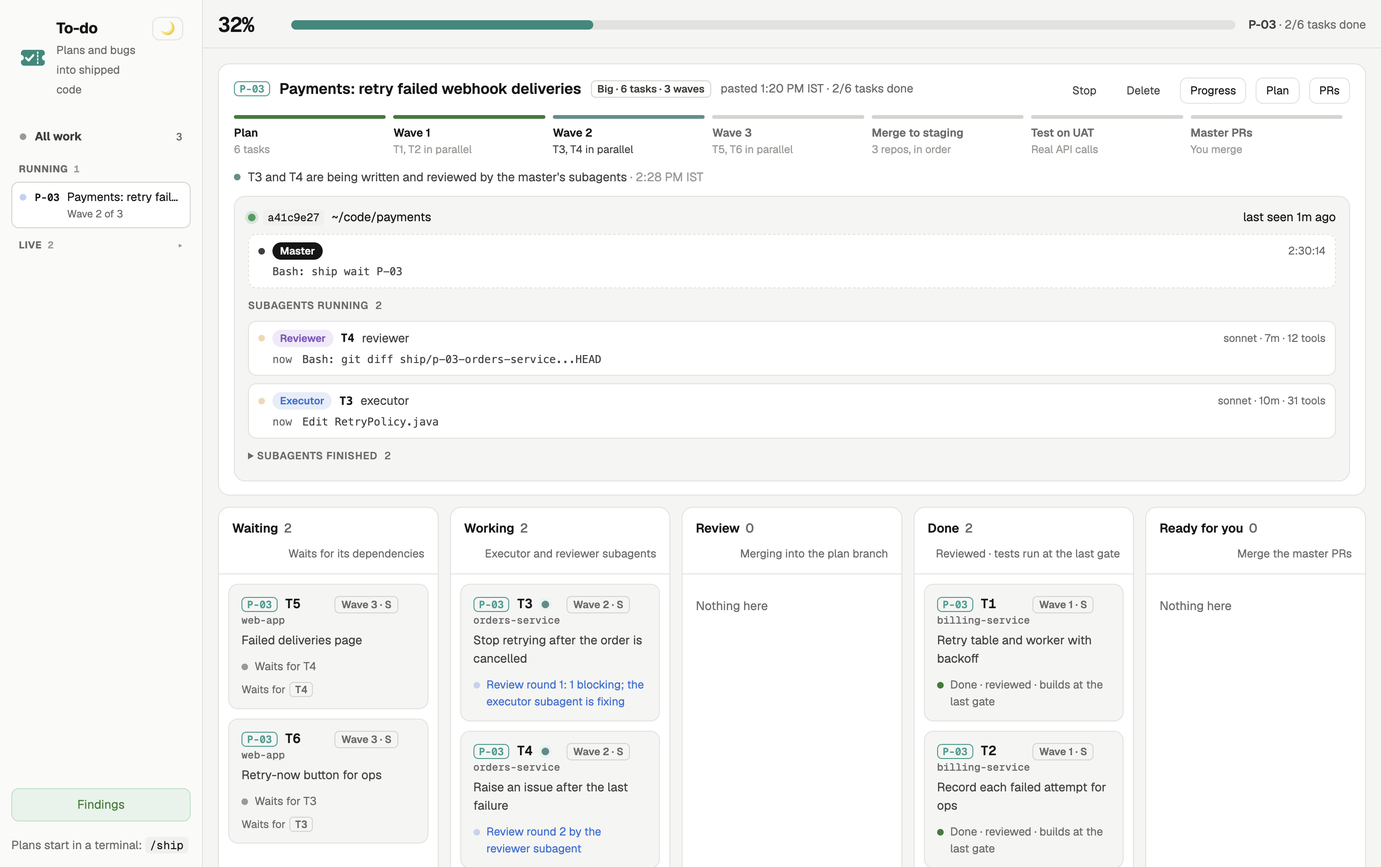
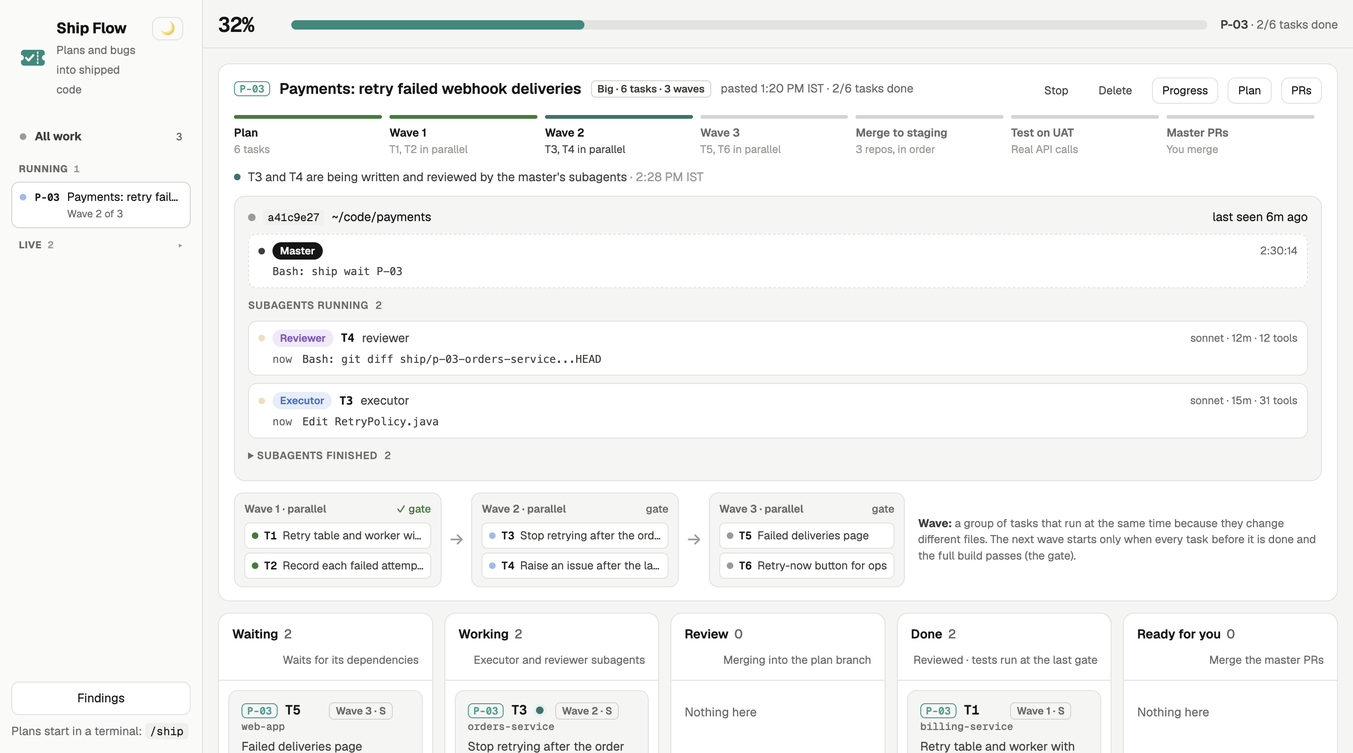
No watchdog in the dashboard; wave boxes back on the plan page; no Stop on a finished staging-only plan; plan changes are asked in plain words (README and skill); 0.2.1

diff --git a/ui/app.js b/ui/app.js
@@ -91,8 +91,7 @@
     const what = !cur ? (p.release?.state === "running" ? "release run #" + p.release.run : "") : cur.run === "tag" ? "waiting for the " + cur.repo + " release" : cur.run === "failed" ? cur.repo + " failed" : (cur.run === "deploying" ? "deploying " : "merging ") + cur.repo;
     return [m + "/" + prs.length + " merged", what, cur?.run === "deploying" ? cur.id : undefined];
   }
-  const wdOn = () => false; // no watchdog: plans run from a terminal session (/ship, ADR-0017)
-  const forYouKind = (p) => (wdOn(p) ? "watchdog" : p.error ? "error" : p.steps.plan === "you" ? "start" : p.steps.master === "you" || p.steps.master === "done" ? "master" : null);
+  const forYouKind = (p) => (p.error ? "error" : p.steps.plan === "you" ? "start" : p.steps.master === "you" || p.steps.master === "done" ? "master" : null);
   const openMaster = (p) => p.masterPrs.filter((r) => r.state === "open").length || p.masterPrs.length;
   const visiblePlans = () => S.plans.filter((p) => sel === "all" || sel === p.id);
   const ptag = (p) => '<span class="ptag" style="--pc:' + colorOf(p) + '">' + esc(p.id) + "</span>";
@@ -108,16 +107,7 @@
       if (text !== lastText) { lastText = text; S = JSON.parse(text); render(); } else if (was) render();
       if (!restored) { restored = true; restoreHash(); }
     } catch (e) { if (!offline) { offline = true; if (S) render(); else showFirstError(); } }
-    await pollEvents(); await pollBanner(); await pollWatchdog();
-  }
-  // The host's watchdog table (GET {base}/watchdog), every 10 s: the sidebar button, the pill, and the open table.
-  let WD = [], wdAt = 0;
-  async function pollWatchdog(force) {
-    return; // the watchdog is gone from the page (ADR-0017)
-    if (!force && Date.now() - wdAt < 10_000) return;
-    wdAt = Date.now();
-    try { const r = await fetch(BASE + "/watchdog", { cache: "no-store" }); if (!r.ok) return; WD = await r.json(); } catch (e) { return; }
-    renderWdBtn(); if ($("#wdDlg").open) $("#wdBody").innerHTML = wdTable(WD);
+    await pollEvents(); await pollBanner();
   }
   // events of the open drawer's plan only; redraws the drawer when they change
   async function pollEvents() {
@@ -167,32 +157,6 @@
     if (rb) rb.onclick = async () => { rb.disabled = true; rb.textContent = "Resuming…"; try { await window.prflowHost.resume(); } catch (e) { toast("Could not resume."); } pauseSig = ""; pollBanner(); };
   }
 
-  // ---------- watchdog (a host feature: plan.watchdog and GET {base}/watchdog; both may be missing) ----------
-  const DOG = '<svg class="wd-ic" viewBox="0 0 24 24" fill="none" stroke="currentColor" stroke-width="2" stroke-linecap="round" stroke-linejoin="round" aria-hidden="true"><path d="M12 3 4 6v6c0 4.4 3.4 8.3 8 9 4.6-.7 8-4.6 8-9V6l-8-3Z"/><path d="m9 12 2 2 4-4"/></svg>';
-  const istDay = (ms) => new Intl.DateTimeFormat("en-CA", { timeZone: "Asia/Kolkata" }).format(ms);
-  const isToday = (ms) => !!ms && istDay(ms) === istDay(Date.now());
-  function wdLine(w) {
-    return ""; // no watchdog on the page (ADR-0017)
-    if (w.state === "working") return '<span class="wdpill work" title="' + esc(w.why) + '">' + DOG + "Watchdog · run " + w.runs + (w.maxRuns ? " of " + w.maxRuns : "") + "</span>";
-    if (w.state === "fixed") return '<span class="wdpill">' + DOG + "Fixed · waiting to restart</span>";
-    if (w.state === "needs") return '<span class="wdpill cap" title="' + esc(w.needs) + '">' + DOG + "Watchdog: " + (w.maxRuns && w.runs >= w.maxRuns ? w.runs + " of " + w.maxRuns + " runs used" : "needs you") + "</span>";
-    const bits = [isToday(w.lastFixAt) && w.fixes ? "Watchdog fixed " + plural(w.fixes, "stop") + " · " + clock(w.lastFixAt) : "", w.kept && isToday(w.kept.at) ? "Watchdog: kept mergeable after " + w.kept.after + " merged · " + clock(w.kept.at) : ""].filter(Boolean);
-    return bits.length ? '<span class="wdpill">' + DOG + esc(bits.join(" · ")) + "</span>" : "";
-  }
-  function wdBox(w, key) {
-    return ""; // no watchdog on the page (ADR-0017)
-    if (!w || (!w.steps?.length && !w.needs) || (w.state === "done" && (w.dismissedAt || !w.lastFixAt)) || (w.state === "needs" && w.dismissedAt)) return "";
-    const done = w.state === "done", cls = done || w.state === "fixed" ? "ok" : w.state === "needs" ? "cap" : "";
-    const title = done ? "Watchdog fixed it" : w.state === "fixed" ? "Watchdog fixed it · waiting to restart" : w.state === "needs" ? "Watchdog handed it to you" : "Watchdog";
-    const row = WD.find((r) => r.key === key && r.bug), bug = w.bug || row?.bug, fix = w.fix || (row?.fix !== "—" ? row?.fix : ""); // short lines; older runs only have them in the table
-    const lead = w.state === "needs" ? "<b>Needs you:</b> " + esc(w.needs) : w.cause ? '<span class="wd1" title="' + esc(w.cause) + '"><b>Cause:</b> ' + esc(bug || w.cause) + "</span>" + (w.summary ? '<span class="wd1" title="' + esc(w.summary) + '"><b>Fix:</b> ' + esc(fix || w.summary) + "</span>" : "") : esc(w.doing || "The watchdog (Opus, outside the sandbox) is reading the plan's events and the code to find out why.");
-    const span = w.startedAt ? clock(w.startedAt) : "";
-    const steps = (w.steps || []).filter((x, i) => !(i === 0 && x.text === w.why)).map((x) => (x.text === "Continue" ? { ...x, text: "Continue the plan" } : x));
-    return '<div class="wdbox ' + cls + '"><h3>' + DOG + title + '<span class="when">' + esc(span) + "</span>" + (done ? '<button class="x" data-a="wd-dismiss" data-id="' + esc(key) + '" title="Hide (the Watchdog table keeps it)">✕</button>' : "") + '</h3><p class="lead">' + lead + "</p>" +
-      (steps.length && !done ? "<ul>" + steps.map((x) => '<li class="' + esc(x.state) + '"><span class="d"></span><span>' + esc(x.text) + '</span><span class="t">' + (x.at ? esc(clock(x.at)) : "") + "</span></li>").join("") + "</ul>" : "") +
-      (w.files?.length ? '<div class="files">' + w.files.map((f) => "<div><span>" + esc(f.change) + "</span> " + esc(f.path) + "</div>").join("") + "</div>" : "") +
-      '<div class="guard">Can\'t push to master or main, merge, or write to the prod database or prod branches. Run ' + w.runs + (w.maxRuns ? " of " + w.maxRuns : "") + " today" + (done ? " · still watching this plan until its master PRs are merged" : "") + ".</div></div>";
-  }
   // The central findings list: every finding of every review, with its status (GET {base}/findings).
   let FD = [], fdView = { status: "open", plan: "all" };
   const FD_ORDER = ["harmful", "minor", "trivial", "open", "not fixed", "being fixed", "partly fixed", "sent to planner", "sent", "accepted", "fixed"];
@@ -208,30 +172,6 @@
     $("#fdBody").innerHTML = bar + (shown.length ? '<table class="fd-t"><thead><tr><th>Status</th><th>Where</th><th>Kind</th><th>Finding</th></tr></thead><tbody>' + rows + "</tbody></table>" + (shown.length > 600 ? '<p class="legend">Showing the first 600 of ' + shown.length + ". Pick a plan or a status to narrow it.</p>" : "") : '<p class="legend">Nothing here.</p>');
   }
   document.addEventListener("fdplan", (e) => { fdView.plan = e.detail; renderFindings(); });
-
-  function wdTable(rows) {
-    if (!rows.length) return '<p class="legend">The watchdog has not stepped in yet.</p>';
-    const cls = { Fixed: "ok", Fixing: "run", "Needs you": "bad" };
-    const when = (ms) => (isToday(ms) ? clock(ms) : new Date(ms).toLocaleDateString("en-IN", { day: "numeric", month: "short", timeZone: "Asia/Kolkata" }) + " " + clock(ms));
-    return '<table class="wdt"><thead><tr><th>When</th><th>Plan / ticket</th><th>Stuck at</th><th>Bug</th><th>Fix</th><th>Changed</th><th>Then</th><th>Status</th></tr></thead><tbody>' + rows.map((r) => '<tr><td class="w">' + esc(when(r.at)) + '</td><td class="id">' + esc(r.name) + "</td><td>" + esc(r.stuckAt) + "</td><td>" + esc(r.bug) + "</td><td>" + esc(r.fix) + "</td><td><code>" + esc(r.files || "—") + "</code></td><td>" + esc(r.then) + '</td><td class="' + (cls[r.status] || "") + '">' + esc(r.status) + "</td></tr>").join("") + "</tbody></table>";
-  }
-  // The global pill: fixing (a plan or a code fix), someone needs you, or how many plans it watches.
-  function wdPill(all) {
-    return ""; // no watchdog on the page (ADR-0017)
-    const act = all.find((p) => p.watchdog?.state === "working"), fixRow = WD.find((r) => r.kind === "fix" && r.status === "Fixing");
-    if (act || fixRow) return '<span class="wdpill work" title="The watchdog is fixing a stopped plan or code fix">' + DOG + "Watchdog: fixing " + esc(act ? act.id : fixRow.name) + "</span>";
-    const need = all.find((p) => p.watchdog?.state === "needs" && p.error);
-    if (need) return '<span class="wdpill cap" title="' + esc(need.watchdog.needs) + '">' + DOG + esc(need.id) + " needs you</span>";
-    const n = all.filter((p) => p.started && p.steps.master !== "done").length, kept = all.reduce((a, p) => a + (p.watchdog && isToday(p.watchdog.kept?.at) ? p.watchdog.keptCount || 0 : 0), 0);
-    return n ? '<span class="wdpill" title="Watches every started plan and ticket code fix until its master PRs are merged">' + DOG + "Watchdog: watching " + plural(n, "plan") + (kept ? " · kept " + kept + " mergeable" : "") + "</span>" : "";
-  }
-  function renderWdBtn() {
-    const b = $("#wdBtn"); if (!b) return;
-    const names = (st) => [...new Set(WD.filter((r) => r.status === st).map((r) => r.name))].join(", "); // amber fixing, red stuck, else green
-    const [cls, text] = names("Fixing") ? ["work", "Watchdog: fixing " + names("Fixing")] : names("Needs you") ? ["bad", "Watchdog: " + names("Needs you") + " stuck"] : ["", "Watchdog: all clear"];
-    b.className = "wdbtn" + (cls ? " " + cls : "");
-    b.innerHTML = DOG + esc(text);
-  }
 
   // ---------- derived views ----------
   function where(p) {
@@ -346,8 +286,8 @@
     const w = (p) => tasksOf(p).length || 1, total = all.reduce((a, p) => a + w(p), 0);
     const one = cur ? [cur] : all, v = cur ? pct(cur) : Math.round(S.progress?.all ?? (all.reduce((a, p) => a + pct(p) * w(p), 0) / total));
     const ks = one.flatMap(tasksOf), done = ks.filter((t) => t.status === "done").length;
-    const you = one.filter((p) => (forYouKind(p) && forYouKind(p) !== "master" || p.steps.master === "you") && !merging(p) && !wdOn(p)).length, label = cur ? cur.id : "All work";
-    return '<span class="pct">' + v + '%</span><div class="gbar" role="progressbar" aria-label="' + esc(label) + '" aria-valuenow="' + v + '" aria-valuemin="0" aria-valuemax="100"><span style="width:' + v + '%"></span></div><span class="gtxt"><b>' + esc(label) + "</b> · " + (cur ? "" : all.length + " pasted · ") + (you ? '<b class="you-n">' + (cur ? "waiting for you" : you + " waiting for you") + "</b> · " : "") + done + "/" + ks.length + " tasks done" + (offline ? ' · <span class="off">offline, retrying</span>' : "") + " " + wdPill(all) + "</span>";
+    const you = one.filter((p) => (forYouKind(p) && forYouKind(p) !== "master" || p.steps.master === "you") && !merging(p)).length, label = cur ? cur.id : "All work";
+    return '<span class="pct">' + v + '%</span><div class="gbar" role="progressbar" aria-label="' + esc(label) + '" aria-valuenow="' + v + '" aria-valuemin="0" aria-valuemax="100"><span style="width:' + v + '%"></span></div><span class="gtxt"><b>' + esc(label) + "</b> · " + (cur ? "" : all.length + " pasted · ") + (you ? '<b class="you-n">' + (cur ? "waiting for you" : you + " waiting for you") + "</b> · " : "") + done + "/" + ks.length + " tasks done" + (offline ? ' · <span class="off">offline, retrying</span>' : "") + " " + "</span>";
   }
   const isBusy = (p) => tasksOf(p).some((t) => t.status === "working" || t.status === "review") || Object.values(p.steps).includes("run");
   // The plans list in the sidebar (and the dropdown on narrow screens): grouped by what it needs, no per-plan colours.
@@ -355,8 +295,6 @@
   try { liveOpen = localStorage.getItem("prflow.liveOpen") === "1"; } catch (e) { /* no storage */ }
   function plistHtml(all) {
     const st = (p) => {
-      const w = p.watchdog;
-      if (wdOn(p)) return ["need", "dog", w.state === "fixed" ? "Watchdog: restarting" : "Watchdog fixing"];
       if (p.error) return p.askYou ? ["need", "you", "Needs you"] : ["need", "bad", w?.state === "needs" ? "Needs you" : "Stopped"];
       if (p.steps.master === "done") return ["live", "ok", p.liveVia ? "Live through " + p.liveVia : "Live on prod"];
       if (p.stagingOnly && p.steps.uat === "done") return ["live", "ok", "Done on staging"]; // staging only: no master PRs
@@ -405,8 +343,8 @@
   }
   function planbarHtml(p) {
     const s = p.steps, ks = tasksOf(p), done = ks.filter((t) => t.status === "done").length, k = kindOf(p);
-    const running = p.started && !p.error && !p.landedAt && s.master !== "you" && s.master !== "done";
-    const canRetry = (p.error || p.stopRequested || ks.some((t) => t.status === "failed")) && !wdOn(p);
+    const running = p.started && !p.error && !p.landedAt && s.master !== "you" && s.master !== "done" && !(p.stagingOnly && s.uat === "done");
+    const canRetry = (p.error || p.stopRequested || ks.some((t) => t.status === "failed"));
     const top = '<div class="pb-top"><div class="pb-l">' + ptag(p) + "<h1>" + esc(p.title) + "</h1>" + sizeTag(p) + '<span class="sub">pasted ' + esc(ist(p.pastedAt)) + " · " + (k === "port" ? "already on staging" : k === "promote" ? esc(p.promotes) + " → staging" : ks.length ? done + "/" + plural(ks.length, "task") + " done" : "sizing") + '</span></div><div class="pb-act">' +
       (false && canRetry ? btn("Retry", "sm", "retry", 'data-id="' + esc(p.id) + '" data-key="/plans/' + esc(p.id) + '/retry"') : "") +
       (running && !p.stopRequested ? btn("Stop", "sm bare", "stop", 'data-id="' + esc(p.id) + '" data-key="/plans/' + esc(p.id) + '/stop"') : p.stopRequested ? '<span class="sub">Stopping…</span>' : "") +
@@ -414,12 +352,11 @@
       btn("Progress", "sm", "plan", 'data-id="' + esc(p.id) + '" data-tab="progress"') + btn(k === "big" ? "Plan" : k === "list" ? "List" : "Bug", "sm", "plan", 'data-id="' + esc(p.id) + '" data-tab="plan"') + btn("PRs", "sm", "plan", 'data-id="' + esc(p.id) + '" data-tab="prs"') +
       (s.master === "you" && !merging(p) ? btn("Merge master PR" + (p.masterPrs.length > 1 ? "s" : ""), "sm gold", "plan", 'data-id="' + esc(p.id) + '" data-tab="prs"') : "") +
       (p.targetBranch ? '<span class="sub" title="Merge to master is off for this plan">Targets ' + esc(p.targetBranch) + ", not staging</span>" : "") + "</div></div>";
-    const track = '<div class="ptrack">' + trackOf(p).map(([n, st, sub]) => '<div class="pstep ' + esc(wdOn(p) && st === "fail" ? "dog" : st) + '"><div class="bar"></div><b>' + esc(n) + "</b><small>" + esc(sub) + "</small></div>").join("") + "</div>";
-    const now = '<div class="pnow ' + esc(wdOn(p) && p.watchdog.steps?.[2]?.state !== "wait" ? "dog" : p.tone) + " " + (s.plan === "you" ? "waiting-you" : "") + '"><i></i><span>' + esc(p.error && !(wdOn(p) && p.watchdog.steps?.[2]?.state !== "wait") ? "Stopped: " + p.error : s.plan === "run" && p.activity?.length ? "Planning · " + lastAct(p.activity) : p.now) + (p.nowAt ? ' <span class="at">· ' + esc(ist(p.nowAt)) + "</span>" : "") + "</span></div>";
+    const track = '<div class="ptrack">' + trackOf(p).map(([n, st, sub]) => '<div class="pstep ' + esc(st) + '"><div class="bar"></div><b>' + esc(n) + "</b><small>" + esc(sub) + "</small></div>").join("") + "</div>";
+    const now = '<div class="pnow ' + esc(p.tone) + " " + (s.plan === "you" ? "waiting-you" : "") + '"><i></i><span>' + esc(p.error ? "Stopped: " + p.error : s.plan === "run" && p.activity?.length ? "Planning · " + lastAct(p.activity) : p.now) + (p.nowAt ? ' <span class="at">· ' + esc(ist(p.nowAt)) + "</span>" : "") + "</span></div>";
     const ver = p.versions?.length ? p.versions[p.versions.length - 1].n : 1;
     const ch = p.changes?.length && p.needsStart && !changesHidden.has(p.id + "#" + ver) ? '<div class="changes"><b>What changed in version ' + ver + '<button class="x" data-a="changes-x" data-id="' + esc(p.id) + '" data-n="' + ver + '" title="Hide (shows again for the next version)">✕</button></b>' + p.changes.map((c) => "<span>" + esc(c) + "</span>").join("") + "</div>" : "";
-    const wl = wdLine(p.watchdog), wd = (wl ? '<div class="wdl">' + wl + "</div>" : "") + wdBox(p.watchdog, p.id);
-    return top + track + now + termBox(p) + wd + ch // minor findings live on the Findings page (sidebar), not here + (k === "big" && ks.length ? wavesHtml(p) : k === "list" && ks.length ? triageHtml(p) : "");
+    return top + track + now + termBox(p) + ch + (k === "big" && ks.length ? wavesHtml(p) : k === "list" && ks.length ? triageHtml(p) : "");
   }
   // Every minor finding the task rounds let through, kept so none is lost. The last review marks harmful ones; you decide every one.
   const openMinorsOf = (p) => (S.minors?.[p.id] || []).filter((m) => !m.decided && (!m.status || ["open", "harmful", "minor", "trivial"].includes(m.status))).sort((a, b) => lvlRank(a) - lvlRank(b));
@@ -507,15 +444,8 @@
   }
   function planCard(p) {
     const kind = forYouKind(p), pid = esc(p.id), n = p.masterPrs.length, live = p.steps.master === "done";
-    if (kind === "watchdog") {
-      const w = p.watchdog, starting = w.state === "working" && w.steps?.[2]?.state === "wait" && !!p.error, fixing = w.state === "working" && !starting;
-      const label = starting ? "Stopped" : fixing ? "Watchdog fixing" : "Watchdog fixed it";
-      const line = starting ? p.error : fixing ? w.doing || w.why || "Reading why it stopped" : (w.summary || "") + " · restarting when nothing is busy, then Retry";
-      return '<div class="card plan ' + (starting ? "stopcard" : "wdcard") + '" data-id="' + pid + '-wd" data-a="pick" data-id2="' + pid + '" tabindex="0"><div class="card-top">' + ptag(p) + '<span class="you ' + (starting ? "bad" : "dog") + '">' + label + '</span></div><div class="m">' + esc(p.title) + '</div><div class="s ' + (starting ? "s-fail" : "s-work") + '"><i></i><span>' + esc(line) + '</span></div><div class="wdl">' + (starting ? '<span class="wdpill work">' + DOG + "Watchdog is starting</span>" : wdLine(w)) + '</div><div class="cbtn"><button class="sm" disabled>Edit plan</button><button class="sm" disabled title="The watchdog is on it">Retry</button></div></div>';
-    }
     if (kind === "error") {
-      const needs = p.watchdog?.state === "needs" ? p.watchdog : null, wl = wdLine(p.watchdog);
-      return '<div class="card plan err" data-id="' + pid + '-error" data-a="pick" data-id2="' + pid + '" tabindex="0"><div class="card-top">' + ptag(p) + '<span class="you ' + (p.askYou ? "" : "bad") + '">' + (needs || p.askYou ? "Needs you" : "Stopped") + '</span></div><div class="m">' + esc(p.title) + '</div><div class="errtxt">' + esc(needs ? needs.needs : p.error) + "</div>" + (wl ? '<div class="wdl">' + wl + "</div>" : "") + '<div class="cbtn">' +  "" + "</div></div>";
+      return '<div class="card plan err" data-id="' + pid + '-error" data-a="pick" data-id2="' + pid + '" tabindex="0"><div class="card-top">' + ptag(p) + '<span class="you ' + (p.askYou ? "" : "bad") + '">' + (p.askYou ? "Needs you" : "Stopped") + '</span></div><div class="m">' + esc(p.title) + '</div><div class="errtxt">' + esc(p.error) + "</div>" + '<div class="cbtn">' +  "" + "</div></div>";
     }
     if (kind === "start") {
       const ks = tasksOf(p), v = p.versions?.length || 1;
@@ -829,7 +759,7 @@
     const vs = p.versions || [], v = vs[vs.length - 1];
     const waits = ks.filter((t) => t.waitsOn?.length).map((t) => esc(t.label) + " waits for " + esc(t.waitsOn.map((x) => String(x).replace("/", " ")).join(", ")) + " (same files).");
     const body = {
-      progress: termBox(p) + wdBox(p.watchdog, p.id) + branchesBox(p) + progressTab(p),
+      progress: termBox(p) + branchesBox(p) + progressTab(p),
       plan: (port ? portBox : '<div class="blk">' + sizeBox + "</div>") + '<div class="blk"><h3>' + (port ? "Why these go to master" : "What you pasted") + (vs.length > 1 ? " · version " + v.n + " (edited " + esc(ist(v.at)) + ")" : "") + '</h3><div class="md">' + esc(p.text) + "</div>" +
         vs.slice(0, -1).reverse().map((x) => '<details class="oldv"><summary>Version ' + x.n + " · " + esc(ist(x.at)) + '</summary><div class="md" style="margin-top:6px">' + esc(x.text) + "</div></details>").join("") + "</div>" +
         (p.contract ? '<div class="blk"><h3>Frozen contract</h3><p class="legend" style="margin:0">Every task uses these fields as written. Only the lead run may change them, and it tells you.</p><div class="files" style="margin-top:8px">' + esc(p.contract) + "</div></div>" : "") +
@@ -841,7 +771,7 @@
       prs: '<div class="blk"><h3>Staging PR' + (p.stagingPrs.length > 1 ? "s" : "") + "</h3>" + (p.stagingPrs.length ? '<div class="prlist">' + p.stagingPrs.slice().sort((a, b) => a.order - b.order).map((r, i) => prRow(r, i, "staging")).join("") + "</div>" : '<p class="legend">Opens when ' + (big ? "all tasks are" : "the fix is") + " done.</p>") + "</div>" +
         '<div class="blk"><h3>Master PR' + (p.masterPrs.length > 1 ? "s: merge in this order" : "") + "</h3>" + (p.masterPrs.length ? '<div class="prlist">' + p.masterPrs.slice().sort((a, b) => a.order - b.order).map((r, i) => prRow(r, i, "master")).join("") + "</div>" : '<p class="legend">Opened after the UAT test passes. The same commits, cherry-picked onto master.</p>') + "</div>",
     }[dtab];
-    const badge = wdOn(p) ? ["dog", p.watchdog.state === "fixed" ? "Watchdog fixed it" : "Watchdog fixing"] : p.error ? ["bad", "Needs attention"] : s.master === "you" ? ["approve", "Your merge"] : s.master === "done" ? ["done", "Live"] : p.landedAt ? ["done", "In " + esc(p.targetBranch)] : s.plan === "you" ? ["approve", "Planned"] : ["diagnosing", "Running"];
+    const badge = p.error ? ["bad", "Needs attention"] : s.master === "you" ? ["approve", "Your merge"] : s.master === "done" ? ["done", "Live"] : p.landedAt ? ["done", "In " + esc(p.targetBranch)] : s.plan === "you" ? ["approve", "Planned"] : ["diagnosing", "Running"];
     const nrepo = Math.max(p.repos.length, 1);
     const meta = port ? plural(p.repos.reduce((a, r) => a + r.stagingCommits.length, 0), "commit") + " · " + plural(nrepo, "repo") : p.kind && ks.length ? (list ? (p.triage?.length || 0) + " bugs · " + plural(ks.length, "task") + " · " + plural(nrepo, "repo") : big ? plural(ks.length, "task") + " · " + plural(waveCount(p), "wave") + " · " + plural(nrepo, "repo") : "1 task · 1 repo") : "Sizing";
     const nm = openMaster(p);
@@ -919,9 +849,6 @@
     else if (a === "findings") { fdView.plan = sel && sel !== "all" && S.plans.some((x) => x.id === sel) ? sel : "all"; $("#fdDlg").showModal(); loadFindings(); } // opens on the plan you are looking at
     else if (a === "fd-close") $("#fdDlg").close();
     else if (a === "fd-filter") { fdView[el.dataset.k] = el.dataset.v; renderFindings(); }
-    else if (a === "watchdog") { $("#wdBody").innerHTML = wdTable(WD); $("#wdDlg").showModal(); pollWatchdog(true); }
-    else if (a === "wd-close") $("#wdDlg").close();
-    else if (a === "wd-dismiss") act("/watchdog/dismiss", { key: id });
   });
   document.addEventListener("toggle", (e) => { const g = e.target?.dataset?.g; if (g) { if (e.target.open) minorGroupsOpen.add(g); else minorGroupsOpen.delete(g); } }, true);
   document.addEventListener("keydown", (e) => {

diff --git a/ui/style.css b/ui/style.css
@@ -380,45 +380,6 @@ button.red-solid { background: var(--bad); border-color: var(--bad); color: #fff
 .blk.gaps { border: 1px solid var(--warn, #c9a227); border-radius: 10px; padding: 10px 14px; margin-bottom: 12px; }
 .blk.gaps pre { white-space: pre-wrap; font-size: 12px; margin: 4px 0 0; }
 
-/* Tasks watchdog (ADR-0010): the pill, the box on a code fix or plan, the sidebar button and its table. */
-.wdpill { display: inline-flex; gap: 6px; align-items: center; font-size: 11.5px; font-weight: 600; border-radius: 999px; padding: 2px 9px 2px 7px; border: 1px solid var(--ok-line); background: var(--ok-bg); color: var(--ok); max-width: 100%; overflow: hidden; text-overflow: ellipsis; white-space: nowrap; }
-.wdpill .wd-ic, .wdbtn .wd-ic, .wdbox .wd-ic { width: 13px; height: 13px; flex: none; }
-.wdpill.work { color: #e0a85a; border-color: rgba(224,168,90,.5); background: rgba(224,168,90,.10); } .wdpill.work .wd-ic { animation: blink 1.2s infinite; }
-.wdpill.cap { color: var(--bad-ink); border-color: var(--bad); background: rgba(224,119,108,.08); }
-.wdl { margin-top: 7px; }
-.wdbox { margin-top: 12px; border: 1px solid rgba(224,168,90,.45); border-radius: 10px; background: rgba(224,168,90,.06); padding: 10px 14px; }
-.wdbox.ok { border-color: var(--ok-line); background: var(--ok-bg); } .wdbox.cap { border-color: var(--bad); background: rgba(224,119,108,.06); }
-.wdbox h3 { margin: 0 0 4px; font-size: 13px; display: flex; gap: 8px; align-items: center; } .wdbox h3 .wd-ic { color: #e0a85a; } .wdbox.ok h3 .wd-ic { color: var(--ok); } .wdbox.cap h3 .wd-ic { color: var(--bad); }
-.wdbox h3 .when { margin-left: auto; font: 500 11px "Geist Mono", monospace; color: var(--dim); }
-.wdbox h3 .x { margin-left: 8px; border: 0; background: none; color: var(--dim); font-size: 15px; line-height: 1; cursor: pointer; padding: 0 2px; width: auto; } .wdbox h3 .x:hover { color: var(--ink); }
-.wdbox .lead { font-size: 12.5px; color: var(--ink-2); margin: 2px 0 8px; line-height: 1.5; }
-.wdbox ul { list-style: none; margin: 0; padding: 0; display: grid; gap: 5px; }
-.wdbox li { display: grid; grid-template-columns: 14px 1fr auto; gap: 8px; font-size: 12px; color: var(--ink-2); align-items: baseline; }
-.wdbox li .d { width: 8px; height: 8px; border-radius: 50%; background: var(--line-2); } .wdbox li.done .d { background: var(--ok); } .wdbox li.now .d { background: #e0a85a; animation: blink 1.2s infinite; } .wdbox li.bad .d { background: var(--bad); } .wdbox li.wait { color: var(--faint); }
-.wdbox li .t { font: 500 11px "Geist Mono", monospace; color: var(--dim); }
-.wdbox .guard { margin-top: 8px; font-size: 11.5px; color: var(--dim); border-top: 1px dashed var(--line-2); padding-top: 6px; }
-.wdbox .files { margin-top: 6px; font: 500 11px "Geist Mono", monospace; color: var(--ink-2); display: flex; gap: 12px; flex-wrap: wrap; } .wdbox .files span { color: var(--ok); }
-.side-foot .wdbtn { width: 100%; display: flex; gap: 8px; align-items: center; justify-content: center; font: inherit; font-size: 13px; padding: 7px 10px; border-radius: 8px; border: 1px solid var(--ok-line); background: var(--ok-bg); color: var(--ok); cursor: pointer; }
-.side-foot .wdbtn .n { font: 600 11px "Geist Mono", monospace; border: 1px solid var(--ok-line); border-radius: 5px; padding: 0 5px; }
-.side-foot .wdbtn.work { color: #e0a85a; border-color: rgba(224,168,90,.5); background: rgba(224,168,90,.10); } .side-foot .wdbtn.work .wd-ic { animation: blink 1.2s infinite; }
-.side-foot .wdbtn.bad { color: var(--bad-ink); border-color: var(--bad-line); background: var(--bad-bg); }
-#wdDlg { width: min(1100px, 96vw); border: 1px solid var(--line-2); border-radius: 14px; background: var(--panel); color: var(--ink); padding: 0; }
-#wdDlg::backdrop { background: rgba(0,0,0,.55); }
-#wdDlg .hd { display: flex; gap: 10px; align-items: center; padding: 14px 18px; border-bottom: 1px solid var(--line); } #wdDlg .hd h2 { margin: 0; font-size: 15px; } #wdDlg .hd small { color: var(--dim); } #wdDlg .hd button { margin-left: auto; width: auto; }
-#wdDlg .bd { padding: 12px 18px 18px; overflow-x: auto; max-height: 70vh; }
-.wdt { width: 100%; border-collapse: collapse; font-size: 12.5px; }
-.wdt th { text-align: left; font-size: 11px; font-weight: 700; color: var(--dim); letter-spacing: .03em; padding: 6px 8px; border-bottom: 1px solid var(--line); white-space: nowrap; }
-.wdt td { padding: 8px; border-bottom: 1px solid var(--line); vertical-align: top; color: var(--ink-2); line-height: 1.4; }
-.wdt td.w { font: 500 11.5px "Geist Mono", monospace; color: var(--dim); white-space: nowrap; } .wdt td.id { font: 600 12px "Geist Mono", monospace; color: var(--ink); white-space: nowrap; }
-.wdt td code { font: 500 11px "Geist Mono", monospace; color: var(--ink-2); } .wdt .ok { color: var(--ok); white-space: nowrap; } .wdt .run { color: #e0a85a; white-space: nowrap; } .wdt .bad { color: var(--bad-ink); white-space: nowrap; }
-.pt-now.dog { color: #e0a85a; }
-.card.plan.wdcard { border-color: rgba(224,168,90,.6); box-shadow: inset 2px 0 0 #e0a85a; }
-.you.dog { color: #e0a85a; border-color: rgba(224,168,90,.5); background: rgba(224,168,90,.1); }
-.gprog .gtxt .wdpill { margin-left: 6px; vertical-align: middle; }
-.side-foot .wdbtn { margin-bottom: 8px; }
-.pstep.dog .bar { background: #e0a85a; animation: blink 1.2s infinite; } .pstep.dog b { color: #e0a85a; }
-.pnow.dog i { background: #e0a85a; }
-.card.plan.stopcard { border-color: var(--bad); box-shadow: inset 2px 0 0 var(--bad); }
 /* Plans list in the sidebar, and the slim "showing" line where the tile strip was */
 .plist { margin-top: 10px; display: grid; gap: 2px; overflow-y: auto; min-height: 0; align-content: start; }
 .plist .gh { display: flex; align-items: center; gap: 6px; font-size: 10.5px; font-weight: 700; letter-spacing: .05em; color: var(--dim); text-transform: uppercase; padding: 8px 8px 4px; background: none; border: 0; text-align: left; cursor: default; font-family: inherit; width: 100%; }
@@ -427,11 +388,11 @@ button.red-solid { background: var(--bad); border-color: var(--bad); color: #fff
 .plist .pr { display: grid; grid-template-columns: 8px auto minmax(0, 1fr); gap: 2px 8px; align-items: center; width: 100%; text-align: left; font: inherit; font-size: 12.5px; color: var(--ink-2); background: none; border: 1px solid transparent; border-radius: 8px; padding: 6px 8px; cursor: pointer; }
 .plist .pr:hover { background: var(--panel); } .plist .pr.on { background: var(--panel); border-color: var(--line-2); color: var(--ink); }
 .plist .pr .d { width: 7px; height: 7px; border-radius: 50%; background: var(--faint); }
-.plist .pr .d.k-you { background: var(--gold-hi); } .plist .pr .d.k-run { background: var(--blue); animation: blink 1.4s infinite; } .plist .pr .d.k-bad { background: var(--bad); } .plist .pr .d.k-dog { background: #e0a85a; animation: blink 1.2s infinite; } .plist .pr .d.k-ok { background: var(--ok); }
+.plist .pr .d.k-you { background: var(--gold-hi); } .plist .pr .d.k-run { background: var(--blue); animation: blink 1.4s infinite; } .plist .pr .d.k-bad { background: var(--bad); } .plist .pr .d.k-ok { background: var(--ok); }
 .plist .pr .id { font: 600 11px "Geist Mono", monospace; color: var(--dim); } .plist .pr.on .id { color: var(--ink); }
 .plist .pr .tt { overflow: hidden; text-overflow: ellipsis; white-space: nowrap; }
 .plist .pr .sub { grid-column: 3; font-size: 11px; color: var(--dim); overflow: hidden; text-overflow: ellipsis; white-space: nowrap; margin-top: -2px; }
-.plist .pr .sub.k-you { color: var(--gold-hi); } .plist .pr .sub.k-bad { color: var(--bad-ink); } .plist .pr .sub.k-dog { color: #e0a85a; }
+.plist .pr .sub.k-you { color: var(--gold-hi); } .plist .pr .sub.k-bad { color: var(--bad-ink); }
 .plist .all { grid-template-columns: 8px minmax(0, 1fr) auto; } .plist .all .n { font: 500 11px "Geist Mono", monospace; color: var(--dim); }
 .views.slim { position: relative; display: flex; flex-wrap: wrap; gap: 10px; align-items: center; margin: 0; padding: 10px 16px 0; font-size: 12.5px; color: var(--dim); overflow: visible; }
 .views.slim b { color: var(--ink); font-weight: 600; } .views.slim .id { font: 600 11.5px "Geist Mono", monospace; color: var(--ink); border: 1px solid var(--line-2); border-radius: 5px; padding: 0 5px; }
@@ -442,7 +403,6 @@ button.red-solid { background: var(--bad); border-color: var(--bad); color: #fff
 @media (min-width: 1001px) { .views.slim .plist.pop { display: none; } }
 @media (max-width: 1000px) { .side .plist { display: none; } .views.slim .pick-dd { display: inline-block; } }
 .side .nav[hidden] { display: none; }
-.badge.dog { color: #e0a85a; border-color: rgba(224,168,90,.5); background: rgba(224,168,90,.1); }
 .you.merging { color: var(--blue); border-color: var(--blue); background: var(--blue-bg); }
 .card .prs .dep { font-size: 10.5px; color: var(--blue); animation: blink 1.4s infinite; }
 /* Merging / deploying: its own teal dot with a soft ring, apart from "running" */
@@ -452,7 +412,6 @@ button.red-solid { background: var(--bad); border-color: var(--bad); color: #fff
 .you.merging { color: #2dbebe; border-color: rgba(45,190,190,.55); background: rgba(45,190,190,.10); }
 .card .prs .dep { color: #2dbebe; }
 
-.wd1 { display: block; } /* cause and fix are written as one short line each; nothing is cut */
 /* release steps in the merge dialog (ADR-0011) */
 .rs-list { margin: 6px 0 4px; padding-left: 20px; max-height: 55vh; overflow: auto; font-size: 13px; color: var(--ink-2); }
 .rs-list li { margin: 0 0 10px; }

diff --git a/ui/index.html b/ui/index.html
@@ -45,7 +45,6 @@
 </div>
 
 <dialog id="fdDlg"><div class="hd"><h2>Findings</h2><small>Every finding from every review session, in every plan</small><button class="sm" data-a="fd-close">Close</button></div><div class="bd" id="fdBody"></div></dialog>
-<dialog id="wdDlg"><div class="hd"><h2>Watchdog</h2><small>What got stuck, what it fixed, how it carried on</small><button class="sm" data-a="wd-close">Close</button></div><div class="bd" id="wdBody"></div></dialog>
 <dialog id="planDlg">
   <h2 id="dlgTitle">Paste a plan or a bug</h2>
   <p class="lead" id="dlgLead"><b>This only plans it. Nothing runs until you press Start.</b> Claude splits it into tasks, runs what it can in parallel and leaves out bugs that are not real. Forgot something? Use Edit plan.</p>

diff --git a/skills/ship/SKILL.md b/skills/ship/SKILL.md
@@ -52,7 +52,7 @@ Stops: after 5 rounds with blocking findings, or the same finding twice, stop th
 
 ### Changing the plan
 
-When a finding has `fix_in: "plan"`, a task needs another repo's file, or a staging test shows the plan is wrong, change only what is needed:
+When the user asks for a change in plain words (they never write a patch), when a finding has `fix_in: "plan"`, when a task needs another repo's file, or when a staging test shows the plan is wrong: work out which tasks it touches and change only those:
 1. Write a patch file with only the tasks that change: `{"why":"...","tasks":[{"label":"T4","action":"update","what":[...],"files":[...]},{"label":"T9","action":"add",...full task...}]}`. Actions: `update` (a running or waiting task gets a note), `redo` (start the task again), `reopen` (a done task changes again), `add`, `remove`.
 2. Run `ship replan <P-xx> <patch.json>`. Every task not named keeps going. Continue the affected executors with SendMessage and the change.
 

diff --git a/README.md b/README.md
@@ -32,6 +32,10 @@ This opens the dashboard with made-up plans, so you can look around before you s
 
 To continue a plan from another session: `ship attach P-07`.
 
+## Changing the plan
+
+Tell the master session in plain words, for example "T4 should also handle refunds" or "drop the retry button". It works out which tasks change, updates only those, and passes the change to the subagents working on them. Every other task keeps going. You never write a patch or run a command for this.
+
 ## You need a backend
 
 ship-flow does the Claude part: planning, writing, reviewing, testing. The fixed steps (worktrees, merges, builds, staging deploys, PRs) belong to your project, so they live in a **backend**: a small local HTTP service. `BACKEND.md` lists the calls it answers. Point ship-flow at it in `~/.claude/ship/config.json`:
